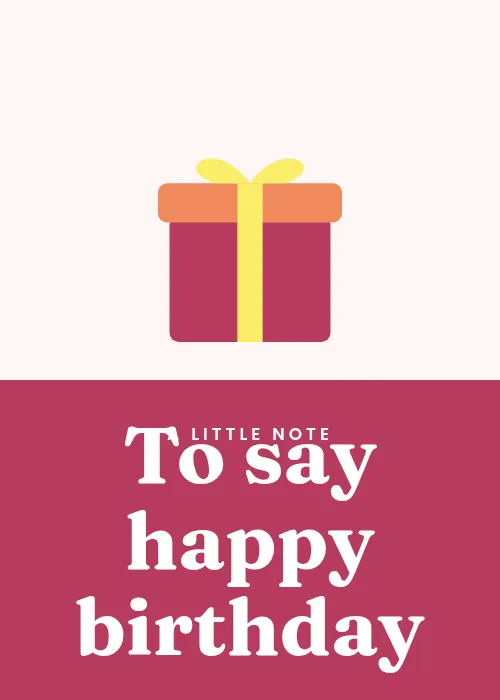
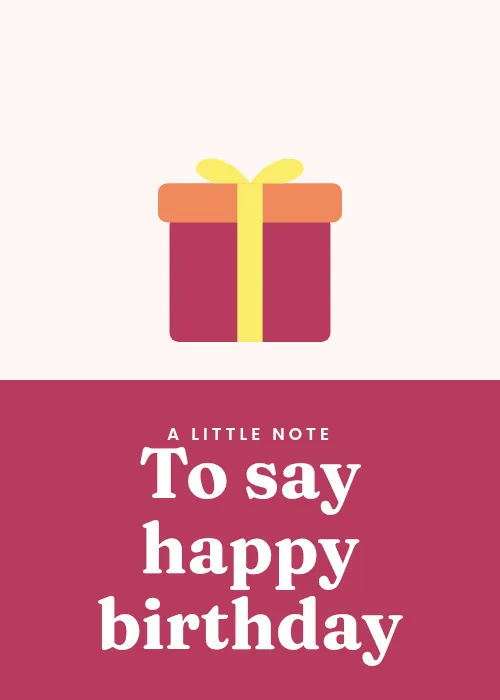
Cards: fix kicker overlap in stack/block layouts (engine.js) and re-export 5 stale visible cards (front + scene)

Changed region(s): [[0.15, 0.6, 0.84, 0.96]]

diff --git a/cards/engine.js b/cards/engine.js
@@ -62,7 +62,9 @@ none:function(){return '';}
 /* ---------- typography ---------- */
 function words(h,acc){var A=(acc||'').toLowerCase().split('|').filter(Boolean);return String(h).split(/\s+/).filter(Boolean).map(function(w){var k=w.toLowerCase().replace(/[^a-z0-9']/g,'');return {t:w,a:A.indexOf(k)>=0};});}
 function lay(ws,font,maxW,maxS,maxLines){var s=maxS,cw=CW[font]||.55;for(;s>18;s-=2){var per=maxW/(s*cw),L=[],c=[],len=0;ws.forEach(function(w){var n=w.t.length+(c.length?1:0);if(len+n>per&&c.length){L.push(c);c=[w];len=w.t.length;}else{c.push(w);len+=n;}});if(c.length)L.push(c);var ok=L.length<=maxLines&&L.every(function(l){return l.map(function(w){return w.t;}).join(' ').length<=per+.5;});if(ok)return {L:L,s:s};}return {L:[ws],s:18};}
-function txt(ws,x,y,font,maxW,maxS,maxLines,fill,afill,halo,weight){var r=lay(ws,font,maxW,maxS,maxLines),lh=r.s*({vibes:1.05,pacifico:1.2,caveat:.98,bebas:.95}[font]||1.08),o='',y0=y-(r.L.length-1)*lh/2;r.L.forEach(function(l,i){o+='<text x="'+x+'" y="'+(y0+i*lh).toFixed(1)+'" text-anchor="middle" dominant-baseline="middle" font-family="'+F(font)+'" font-size="'+r.s+'" font-weight="'+(weight||700)+'" fill="'+fill+'"'+(halo?' stroke="'+halo+'" stroke-width="'+Math.max(5,r.s*.12).toFixed(0)+'" stroke-linejoin="round" paint-order="stroke"':'')+'>'+l.map(function(w,j){return '<tspan'+(w.a?' fill="'+afill+'"':'')+'>'+(j?' ':'')+esc(w.t)+'</tspan>';}).join('')+'</text>';});return {svg:o,h:r.L.length*lh,s:r.s};}
+function txt(ws,x,y,font,maxW,maxS,maxLines,fill,afill,halo,weight){var r=lay(ws,font,maxW,maxS,maxLines),lh=r.s*({vibes:1.05,pacifico:1.2,caveat:.98,bebas:.95}[font]||1.08),o='',y0=y-(r.L.length-1)*lh/2;r.L.forEach(function(l,i){o+='<text x="'+x+'" y="'+(y0+i*lh).toFixed(1)+'" text-anchor="middle" dominant-baseline="middle" font-family="'+F(font)+'" font-size="'+r.s+'" font-weight="'+(weight||700)+'" fill="'+fill+'"'+(halo?' stroke="'+halo+'" stroke-width="'+Math.max(5,r.s*.12).toFixed(0)+'" stroke-linejoin="round" paint-order="stroke"':'')+'>'+l.map(function(w,j){return '<tspan'+(w.a?' fill="'+afill+'"':'')+'>'+(j?' ':'')+esc(w.t)+'</tspan>';}).join('')+'</text>';});return {svg:o,h:r.L.length*lh,s:r.s,n:r.L.length,lh:lh};}
+/* kicker clearance: if the first headline line's glyph top would sit within 14 units of the kicker baseline ky, push the block down (up to y664), then shrink */
+function below(ws,font,ms,cy,ky,maxW,maxLines,fill,afill){var T=txt(ws,250,cy,font,maxW,ms,maxLines,fill,afill);for(var g=0;g<40&&ms>30;g++){var y0=cy-(T.n-1)*T.lh/2,d=ky+14-(y0-.38*T.s);if(d<=0)break;if(y0+(T.n-1)*T.lh+.38*T.s+d<=664){cy+=d;T=txt(ws,250,cy,font,maxW,ms,maxLines,fill,afill);break;}ms-=2;T=txt(ws,250,cy,font,maxW,ms,maxLines,fill,afill);}return T;}
 /* badge fit: every line's ink box must sit inside the badge (r190) with an 8% inset. FW = per-glyph advance at 100px, weight 700 (measured in Chrome), so the check is per-font and per-word, not per-card. */
 var FWC=" !\"#$%&'()*+,-./0123456789:;<=>?@ABCDEFGHIJKLMNOPQRSTUVWXYZ[\\]^_`abcdefghijklmnopqrstuvwxyz{|}~\u2019\u2018\u201c\u201d\u2013\u2014\u00a3\u00e9\u00e8",FW={playfair:[23,29,37,62,57,73,90,21,32,32,48,57,27,48,27,37,64,38,52,49,53,46,56,45,56,55,29,30,60,63,60,51,88,67,67,70,78,63,59,73,80,38,36,71,61,93,72,79,64,79,69,58,67,69,67,97,69,62,60,32,37,32,53,61,30,52,59,50,60,50,35,55,61,31,30,58,31,90,61,56,60,58,47,46,35,61,51,79,54,52,47,33,25,33,67,25,26,46,46,60,89,66,50,50],poppins:[21,39,41,90,66,87,80,22,48,48,53,63,29,58,28,45,65,38,57,60,68,65,64,53,65,61,28,35,55,70,54,54,108,74,66,76,73,54,55,76,73,29,58,70,48,92,75,79,62,79,65,61,59,70,73,105,71,67,60,51,80,51,71,78,29,68,68,60,68,62,36,68,67,29,29,62,29,106,67,64,68,68,43,56,41,67,63,87,59,63,50,50,29,50,64,31,31,54,54,69,93,66,62,62],caveat:[24,21,24,56,45,60,56,12,33,33,36,45,20,33,20,33,45,45,45,45,45,43,47,45,45,44,20,20,45,45,45,37,64,51,52,48,59,53,47,49,57,41,31,51,43,73,62,50,47,49,54,49,46,48,49,72,52,50,52,33,33,33,45,45,35,45,44,36,40,33,30,36,47,20,21,37,18,57,46,36,38,38,36,35,33,37,33,52,34,34,31,33,33,33,45,12,12,27,27,45,57,45,32,32],dmserif:[22,33,42,56,53,87,72,22,37,37,43,54,30,33,30,34,50,35,53,53,54,53,53,49,50,53,30,30,54,54,54,51,88,65,60,60,65,55,54,66,69,30,43,65,54,79,65,67,56,67,63,52,63,65,63,92,61,59,56,34,34,34,54,53,40,52,58,49,57,51,34,53,58,28,28,58,29,87,58,54,58,56,44,44,36,57,53,78,57,54,46,34,27,34,54,21,21,43,43,53,83,53,51,51],pacifico:[26,34,51,70,52,90,85,29,61,61,52,70,26,40,26,51,54,38,56,52,58,52,54,50,51,54,26,26,70,70,70,48,101,79,83,69,84,69,71,81,87,49,74,94,67,123,88,82,80,82,88,69,70,89,76,122,71,85,72,40,51,40,70,35,60,46,47,40,49,41,37,45,49,22,23,52,37,73,48,45,46,45,49,39,41,46,42,67,58,45,41,49,33,49,70,24,24,46,46,48,62,52,41,41],bebas:[16,21,34,41,40,59,42,19,28,28,42,40,19,27,19,39,40,40,40,40,40,40,40,40,40,40,19,19,40,40,40,36,70,40,40,38,41,36,34,39,42,19,26,41,34,54,43,40,39,40,40,37,36,40,38,56,41,39,36,28,39,28,40,30,50,40,40,38,41,36,34,39,42,19,26,41,34,54,43,40,39,40,40,37,36,40,38,56,41,39,36,28,50,28,40,19,19,34,34,30,50,40,36,36],vibes:[17,31,21,80,45,62,61,11,53,51,55,34,21,40,20,50,46,30,39,39,41,37,39,35,38,40,29,30,23,38,25,40,103,72,105,71,105,82,105,70,139,92,97,120,72,134,104,73,92,76,103,93,93,95,98,135,79,96,68,41,83,45,32,73,18,36,33,26,37,26,19,40,34,18,18,36,21,51,34,34,34,35,26,27,20,36,31,49,33,38,34,55,46,51,37,25,17,29,37,52,80,75,26,26],fraunces:[21,33,41,67,62,83,78,20,38,38,62,57,31,41,30,51,70,49,64,59,66,61,65,55,66,65,30,31,53,57,53,57,96,76,74,71,82,68,63,78,88,44,56,83,65,96,77,80,73,80,79,63,72,76,74,109,74,70,65,37,51,38,48,51,27,58,63,54,64,55,43,60,67,34,34,64,34,99,67,61,65,63,51,51,42,65,57,86,58,59,51,42,31,42,64,26,26,52,53,55,87,66,55,55]};
 function tw(str,font,s){var w=FW[font],n=0;if(!w)return str.length*s*(CW[font]||.55)*1.2;for(var i=0;i<str.length;i++){var c=FWC.indexOf(str[i]);n+=c<0?60:w[c];}return n*s/100;}
@@ -73,12 +75,12 @@ function kick(k,y,fill,font){if(fill&&fill.k)fill=fill.k;return k?'<text x="250"
 function ill(t,p,x,y,s){var f=I[t.ill]||I.none;return '<g transform="translate('+x+' '+y+') scale('+s+')">'+f(p)+'</g>';}
 /* ---------- layouts ---------- */
 var L={
-stack:function(t,p,r,h,k,font){var o=M[t.motif](p,r,[40,90,460,640])+ill(t,p,250,200,1.05)+kick(k,345,p.k||p.acc[0]);var T=txt(words(h,t.accent),250,470,font,400,t.size||76,3,p.ink,p.acc[0]);return o+T.svg;},
+stack:function(t,p,r,h,k,font){var o=M[t.motif](p,r,[40,90,460,640])+ill(t,p,250,200,1.05)+kick(k,345,p.k||p.acc[0]);var T=k?below(words(h,t.accent),font,t.size||76,470,345,400,3,p.ink,p.acc[0]):txt(words(h,t.accent),250,470,font,400,t.size||76,3,p.ink,p.acc[0]);return o+T.svg;},
 badge:function(t,p,r,h,k,font){var o=M[t.motif](p,r,k?[40,52,460,600]:[50,110,450,600])+'<circle cx="250" cy="370" r="190" fill="'+p.acc[0]+'"/><circle cx="250" cy="370" r="174" fill="none" stroke="'+p.panel+'" stroke-width="2" stroke-dasharray="4 7" opacity=".7"/>'+kick(k,90,p.ink);var m0=t.size||66,ms,mw,ml,ws=words(h,t.accent);fit:for(ml=3;ml<=4;ml++)for(ms=m0;ms>(ml===3?Math.round(m0*.6):30);ms-=2)for(mw=290;mw>=170;mw-=20)if(badgeFits(ws,font,ms,mw,ml))break fit;if(ml>4){ms=30;mw=290;ml=4;}var T=txt(ws,250,370,font,mw,ms,ml,p.panel,p.panel);o+=T.svg;if(t.ill&&t.ill!=='none')o+=ill(t,p,250,615,.5);return o;},
 number:function(t,p,r,h,k,font){var num=t.num||h,nf=t.nfont||'bebas',ns=String(num).length>2?240:330;var o=M[t.motif](p,r,[60,90,440,600]);o+='<text x="262" y="'+(400)+'" text-anchor="middle" font-family="'+F(nf)+'" font-size="'+ns+'" font-weight="800" fill="'+p.acc[1]+'">'+esc(num)+'</text><text x="250" y="'+(388)+'" text-anchor="middle" font-family="'+F(nf)+'" font-size="'+ns+'" font-weight="800" fill="'+p.acc[0]+'">'+esc(num)+'</text>';o+='<path d="M70 470 h360 l-20 26 l20 26 h-360 l20 -26z" fill="'+p.ink+'"/>'+'<text x="250" y="504" text-anchor="middle" font-family="'+F('poppins')+'" font-size="22" font-weight="700" letter-spacing="5" fill="'+p.bg+'">'+esc((k||'HAPPY BIRTHDAY').toUpperCase())+'</text>';if(h!==String(num)){var T=txt(words(h,t.accent),250,590,font==='bebas'?'poppins':font,380,40,2,p.ink,p.acc[0]);o+=T.svg;}return o;},
 arch:function(t,p,r,h,k,font){var o=M[t.motif](p,r,[0,0,500,700]);o+='<path d="M70 360 V 210 A 180 180 0 0 1 430 210 V 360z" fill="'+p.acc[3]+'"/>'+ill(t,p,250,240,1.1)+'<rect x="40" y="360" width="420" height="300" fill="'+p.bg+'"/>'+kick(k,410,p.k||p.acc[0]);var T=txt(words(h,t.accent),250,545,font,400,Math.min(t.size||70,74),2,p.ink,p.acc[0]);return o+T.svg;},
 frame:function(t,p,r,h,k,font){var o=M[t.motif](p,r,[60,60,440,640])+'<rect x="34" y="34" width="432" height="632" rx="4" fill="none" stroke="'+p.acc[0]+'" stroke-width="2.5"/><rect x="46" y="46" width="408" height="608" rx="2" fill="none" stroke="'+p.acc[0]+'" stroke-width="1" opacity=".7"/>'+ill(t,p,250,190,.8)+kick(k,320,p.k||p.acc[0],'playfair');var ms=t.size||80,wt=font==='vibes'?400:700,lf={vibes:1.05,pacifico:1.2,caveat:.98,bebas:.95}[font]||1.08,T=txt(words(h,t.accent),250,440,font,360,ms,3,p.ink,p.acc[0],null,wt);while(k&&440-(T.h-T.s*lf)/2-T.s*(font==='vibes'?.78:.62)<338&&ms>36){ms-=2;T=txt(words(h,t.accent),250,440,font,360,ms,3,p.ink,p.acc[0],null,wt);}return o+T.svg+'<path d="M200 560 h100" stroke="'+p.acc[0]+'" stroke-width="2"/><circle cx="250" cy="560" r="4" fill="'+p.acc[0]+'"/>';},
-block:function(t,p,r,h,k,font){var o='<rect x="0" y="380" width="500" height="320" fill="'+p.acc[0]+'"/>'+M[t.motif](p,r,[0,300,500,700])+ill(t,p,250,250,1.15)+kick(k,440,p.panel);var T=txt(words(h,t.accent),250,550,font,410,t.size||70,3,p.panel,p.panel);return o+T.svg;},
+block:function(t,p,r,h,k,font){var o='<rect x="0" y="380" width="500" height="320" fill="'+p.acc[0]+'"/>'+M[t.motif](p,r,[0,300,500,700])+ill(t,p,250,250,1.15)+kick(k,440,p.panel);var T=k?below(words(h,t.accent),font,t.size||70,550,440,410,3,p.panel,p.panel):txt(words(h,t.accent),250,550,font,410,t.size||70,3,p.panel,p.panel);return o+T.svg;},
 sticker:function(t,p,r,h,k,font){var o=M[t.motif](p,r,null);o+='<g transform="rotate(-4 250 380)"><rect x="52" y="210" width="396" height="330" rx="26" fill="'+p.ink+'" opacity=".15" transform="translate(8 10)"/><rect x="52" y="210" width="396" height="330" rx="26" fill="'+p.panel+'"/>'+kick(k,252,p.k||p.acc[0]);var ms=t.size||64,cy=k?410:395,T=txt(words(h,t.accent),250,cy,font,340,ms,4,p.ink,p.acc[0]);while(k&&T.h>232&&ms>30){ms-=2;T=txt(words(h,t.accent),250,cy,font,340,ms,4,p.ink,p.acc[0]);}o+=T.svg+'</g>';if(t.ill&&t.ill!=='none')o+=ill(t,p,390,580,.55);return o;}
 };
 function render(t,opts){opts=opts||{};var p=t.pal,r=rng(t.id),font=opts.font||t.font,head=opts.headline!=null?opts.headline:t.headline,k=opts.sub!=null?opts.sub:(t.kicker!=null?t.kicker:t.sub);
